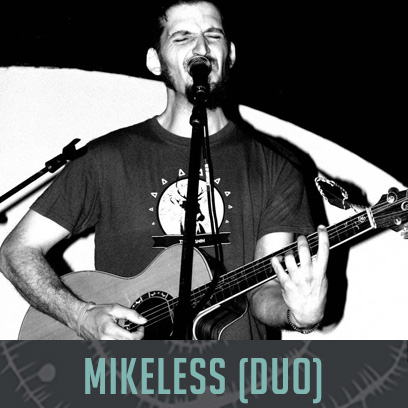
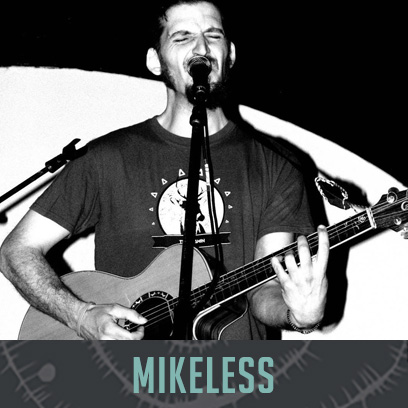
Update.

Changed region(s): [[0.2059, 0.8529, 0.7941, 1.0]]

diff --git a/extra.html b/extra.html
@@ -75,61 +75,9 @@
   <div class="extra-container col-xs-12 col-sm-12 col-md-12">
     <div class="heading">Extra</div>
     <div class="intro">
-      Come ogni anno Tendenze Festival vi propone un percorso attraverso il meglio dell'extra alternativo ed innovativo, tra artigianato, vintage, musica, creatività e associazionismo in tutte le sue forme.
+      A fianco delle più tradizionali "bancarelle" che affolleranno la parte "expo", anche quest'anno Tendenze offrirà un ulteriore percorso tra installazioni interattive, spazi performativi e progetti creativi a sfondo sociale, il tutto affiancato da spicchi di danza, teatro, arti circensi e, naturalmente, stand gastronomici per onnivori, carnivori e vegani.
       <br/>
       <strong>La lista e le schede sono in continuo aggiornamento!</strong>
-    </div>
-    <div class="exhibitor row">
-      <div class="name col-xs-12 visible-xs">Wood Design</div>
-      <div class="col-xs-12 col-sm-3 col-md-3">
-        <div class="image">
-          <img class="img-responsive" src="/img/expo/01-wooddesign.jpg" />
-        </div>
-      </div>
-      <div class="content col-xs-12 col-sm-9 col-md-9">
-        <div class="name hidden-xs">Wood Design</div>
-        <div class="text"><p>Il nostro percorso inizia con più di vent&#39;anni di esperienza di lavoro in fabbrica (tornitura dell&#39;acciaio), e nel restauro conservativo delle opere d&#39;arte e nell&#39;ambito del legno. Tre anni fa, ci siamo trasferiti in montagna, in un piccolo borgo abbandonato della Val Nure. Con le nostre forze, abbiamo restaurato un vecchio fienile, abbracciato l&#39;agricoltura in una logica di sussistenza, e abbiamo attrezzato un piccolo laboratorio di Torneria del legno alimentato dall&#39;energia del sole. Come materia “prima”, utilizziamo solo legname di recupero, proveniente da potature di alberi, travi antiche, vecchie assi... Con questo materiale, realizziamo nuovi oggetti utili per la vita quotidiana,totalmente lavorati a mano. Tutto a Km zero.</p>
-</div>
-      </div>
-    </div>
-    <div class="exhibitor row">
-      <div class="name col-xs-12 visible-xs">Gioielli e Manufatti</div>
-      <div class="col-xs-12 col-sm-3 col-md-3">
-        <div class="image">
-          <img class="img-responsive" src="/img/expo/02-gioielli.jpg" />
-        </div>
-      </div>
-      <div class="content col-xs-12 col-sm-9 col-md-9">
-        <div class="name hidden-xs">Gioielli e Manufatti</div>
-        <div class="text"><p>Effettua la vendita di manufatti in cuoio realizzati a mano e gioielli realizzati in diverse leghe.</p>
-</div>
-      </div>
-    </div>
-    <div class="exhibitor row">
-      <div class="name col-xs-12 visible-xs">Illustrazioni</div>
-      <div class="col-xs-12 col-sm-3 col-md-3">
-        <div class="image">
-          <img class="img-responsive" src="/img/expo/03-illustrazioni.jpg" />
-        </div>
-      </div>
-      <div class="content col-xs-12 col-sm-9 col-md-9">
-        <div class="name hidden-xs">Illustrazioni</div>
-        <div class="text"><p>Emanuela Cafferini nasce a Piacenza il 2/4/83, collabora dal 2009 con riviste indipendenti (BURP!, Sonnambulo, Damage comix) ed editori di fumetti (Double Shot, Proglo, Bookmaker) e lavora con riviste, privati e siti web come illustratrice/illustratrice per l&#39;infanzia.</p>
-</div>
-      </div>
-    </div>
-    <div class="exhibitor row">
-      <div class="name col-xs-12 visible-xs">Stampa 3D / Taglio Laser</div>
-      <div class="col-xs-12 col-sm-3 col-md-3">
-        <div class="image">
-          <img class="img-responsive" src="/img/expo/04-stampa.jpg" />
-        </div>
-      </div>
-      <div class="content col-xs-12 col-sm-9 col-md-9">
-        <div class="name hidden-xs">Stampa 3D / Taglio Laser</div>
-        <div class="text"><p>Officine Baco è un’associazione culturale che si occupa di formazione sulle tecnologie tipiche della digital fabrication come stampa 3D, elettronica open source e taglio laser. In particolare in occasione del Festival Tendenze 3.0 presenteremo il nostro ultimo progetto: il primo prototipo di un body per chitarra elettrica stampato in 3D utilizzando un biopolimero chiamato PLA, ecologico e derivato dall’amido di mais. Utilizzando questa particolare tecnica produttiva si ottiene un prodotto estremamente sostenibile sia dal punto di vista ambientale che del costo, infatti oltre al body completamente riciclabile e low cost, abbiamo cercato di recuperare manico, meccaniche ed elettronica da chitarre non più utilizzabili.</p>
-</div>
-      </div>
     </div>
   </div>
 </div>

diff --git a/lineup.html b/lineup.html
@@ -286,7 +286,12 @@
 <a href="#">        <img class="img-responsive" data-src="img/bands/thumbs/martello.jpg" src="/img/bands/thumbs/empty.jpg" />
 </a>    </div>
   </div>
-  <div id='mikelessfullband' class="band col-xs-6 col-sm-4 col-md-3">
+  <div id='matteotrippi' class="band col-xs-6 col-sm-4 col-md-3">
+    <div class="image">
+<a href="#">        <img class="img-responsive" data-src="img/bands/thumbs/matteotrippi.jpg" src="/img/bands/thumbs/empty.jpg" />
+</a>    </div>
+  </div>
+  <div id='mikeless' class="band col-xs-6 col-sm-4 col-md-3">
     <div class="image">
 <a href="#">        <img class="img-responsive" data-src="img/bands/thumbs/mikeless.jpg" src="/img/bands/thumbs/empty.jpg" />
 </a>    </div>
@@ -429,11 +434,6 @@
   <div id='threehorns' class="band col-xs-6 col-sm-4 col-md-3">
     <div class="image">
 <a href="#">        <img class="img-responsive" data-src="img/bands/thumbs/threehorns.jpg" src="/img/bands/thumbs/empty.jpg" />
-</a>    </div>
-  </div>
-  <div id='trippi' class="band col-xs-6 col-sm-4 col-md-3">
-    <div class="image">
-<a href="#">        <img class="img-responsive" data-src="img/bands/thumbs/trippi.jpg" src="/img/bands/thumbs/empty.jpg" />
 </a>    </div>
   </div>
   <div id='uochitoki' class="band col-xs-6 col-sm-4 col-md-3">

diff --git a/bands/mikeless.html b/bands/mikeless.html
@@ -24,12 +24,12 @@
   <body class="fluid">
     <div class="band-container container-fluid">
   <div class="row orange">
-    <div class="return hidden-lg"><a href="/lineup.html#mikelessfullband">< Torna alla Line Up</a></div>
+    <div class="return hidden-lg"><a href="/lineup.html#mikeless">< Torna alla Line Up</a></div>
     <div class="banner col-xs-12 col-sm-12 col-md-12">
       <img class="img-responsive" src="/img/" />
     </div>
     <div class="col-xs-12 col-sm-12 col-md-12">
-      <div class="name title">MIKELESS full band</div>
+      <div class="name title">MIKELESS</div>
       <div class="description"></div>
       <div class="music title">Music</div>
       <div class="link"><a target="blank" href="#"></a></div>

diff --git a/bandmodals/mikeless.html b/bandmodals/mikeless.html
@@ -1,11 +1,11 @@
 <div class="band-container container-fluid">
   <div class="row orange">
-    <div class="return hidden-lg"><a href="/lineup.html#mikelessfullband">< Torna alla Line Up</a></div>
+    <div class="return hidden-lg"><a href="/lineup.html#mikeless">< Torna alla Line Up</a></div>
     <div class="banner col-xs-12 col-sm-12 col-md-12">
       <img class="img-responsive" src="/img/" />
     </div>
     <div class="col-xs-12 col-sm-12 col-md-12">
-      <div class="name title">MIKELESS full band</div>
+      <div class="name title">MIKELESS</div>
       <div class="description"></div>
       <div class="music title">Music</div>
       <div class="link"><a target="blank" href="#"></a></div>

diff --git a/bands/trippi.html b/bands/trippi.html
@@ -29,7 +29,7 @@
       <img class="img-responsive" src="/img/" />
     </div>
     <div class="col-xs-12 col-sm-12 col-md-12">
-      <div class="name title">TRIPPI</div>
+      <div class="name title">MATTEO TRIPPI</div>
       <div class="description"></div>
       <div class="music title">Music</div>
       <div class="link"><a target="blank" href="#"></a></div>

diff --git a/bandmodals/trippi.html b/bandmodals/trippi.html
@@ -5,7 +5,7 @@
       <img class="img-responsive" src="/img/" />
     </div>
     <div class="col-xs-12 col-sm-12 col-md-12">
-      <div class="name title">TRIPPI</div>
+      <div class="name title">MATTEO TRIPPI</div>
       <div class="description"></div>
       <div class="music title">Music</div>
       <div class="link"><a target="blank" href="#"></a></div>
